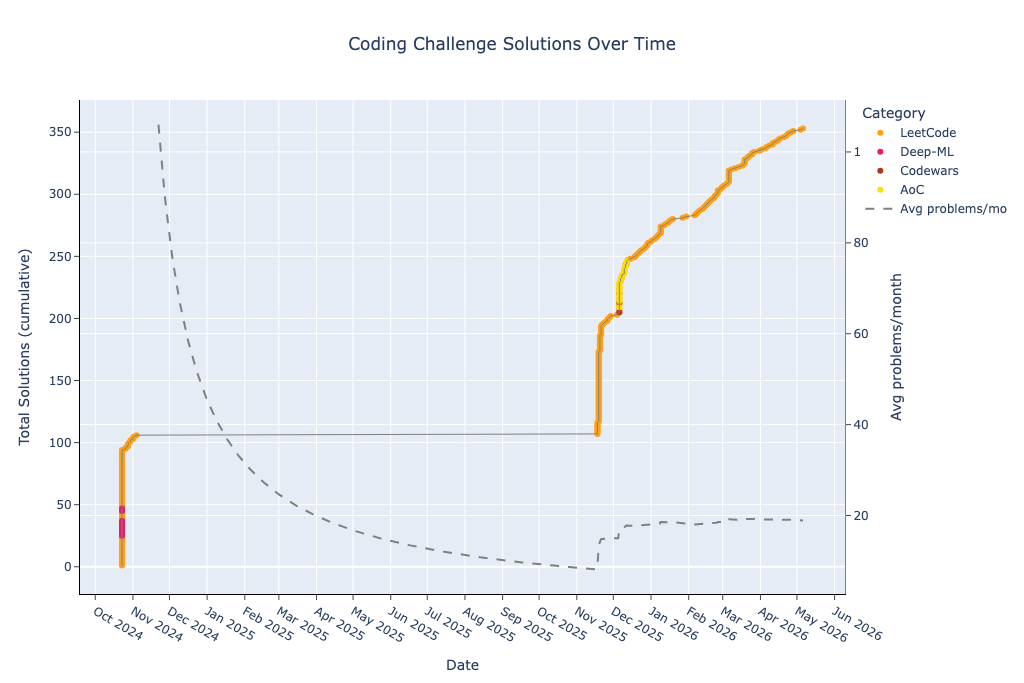
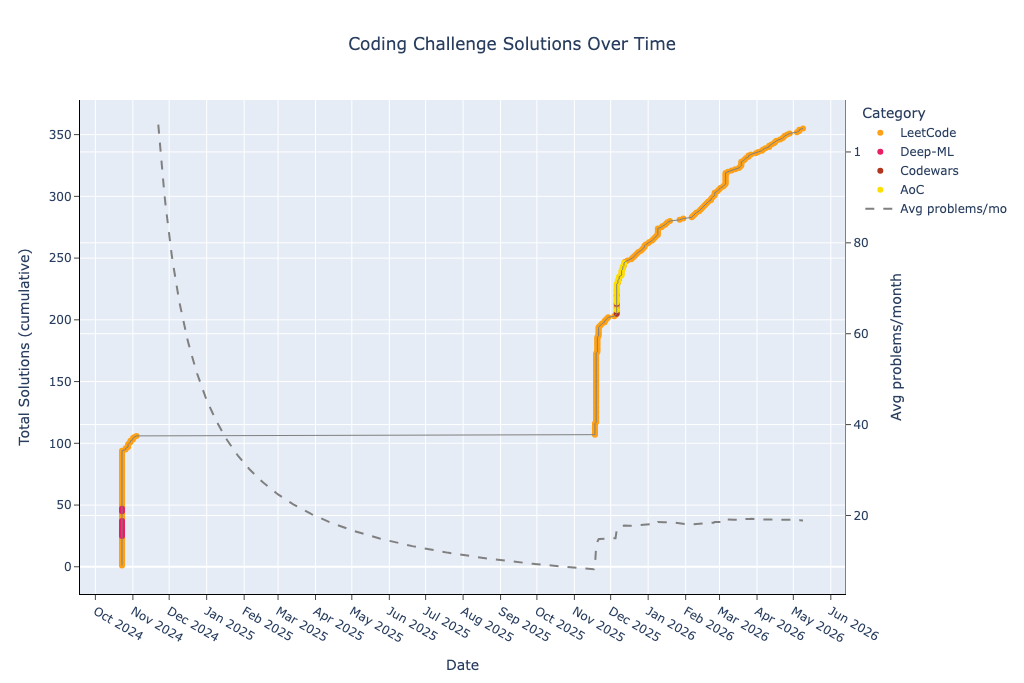
Regenerate README with LeetCode 1914

diff --git a/README.md b/README.md
@@ -36,7 +36,7 @@ This repository contains a collection of coding problems solved on various platf
 | deep-ml-easy | 9 | 72 | 8 | 10 | 0 | 2 | 13 | 0 | 0 | 0 | 12 | 3 | 0 | 0 | 0 | 0 | 0 | 0 |
 | deep-ml-medium | 5 | 69 | 13 | 5 | 0 | 1 | 7 | 0 | 0 | 0 | 8 | 2 | 0 | 0 | 0 | 0 | 0 | 0 |
 | leetcode-easy | 114 | 1879 | 16 | 156 | 6 | 152 | 144 | 41 | 4 | 14 | 188 | 4 | 4 | 14 | 1 | 0 | 11 | 0 |
-| leetcode-medium | 170 | 4459 | 26 | 299 | 5 | 452 | 329 | 101 | 20 | 39 | 367 | 6 | 35 | 52 | 11 | 25 | 23 | 7 |
+| leetcode-medium | 171 | 4493 | 26 | 302 | 5 | 456 | 331 | 102 | 20 | 39 | 372 | 6 | 36 | 52 | 11 | 25 | 23 | 7 |
 | leetcode-hard | 30 | 957 | 31 | 56 | 4 | 88 | 75 | 19 | 8 | 15 | 70 | 3 | 7 | 11 | 8 | 2 | 9 | 9 |
 
 ## Recent Changes
@@ -47,6 +47,8 @@ Recently solved and added problems.
 
 | Date | Type | Challenge | Solution Code | Problem Link |
 | --- | --- | --- | --- | --- |
+| 2026-05-09 | LeetCode Medium | Cyclically Rotating a Grid | [python](leetcode/medium/1914.%20Cyclically%20Rotating%20a%20Grid.py) | [leetcode.com](https://leetcode.com/problems/cyclically-rotating-a-grid/) |
+| 2026-05-06 | LeetCode Medium | Check if There is a Valid Path in a Grid | [python](leetcode/medium/1391.%20Check%20if%20There%20is%20a%20Valid%20Path%20in%20a%20Grid.py) | [leetcode.com](https://leetcode.com/problems/check-if-there-is-a-valid-path-in-a-grid/) |
 | 2026-05-06 | LeetCode Medium | Rotate List | [python](leetcode/medium/61.%20Rotate%20List.py) | [leetcode.com](https://leetcode.com/problems/rotate-list/) |
 | 2026-05-04 | LeetCode Medium | Rotate Image | [python](leetcode/medium/48.%20Rotate%20Image.py) | [leetcode.com](https://leetcode.com/problems/rotate-image/) |
 | 2026-04-28 | LeetCode Medium | Minimum Operations to Make a Uni-Value Grid | [python](leetcode/medium/2033.%20Minimum%20Operations%20to%20Make%20a%20Uni-Value%20Grid.py) | [leetcode.com](https://leetcode.com/problems/minimum-operations-to-make-a-uni-value-grid/) |
@@ -55,8 +57,6 @@ Recently solved and added problems.
 | 2026-04-23 | LeetCode Medium | Sum of Distances | [python](leetcode/medium/2615.%20Sum%20of%20Distances.py) | [leetcode.com](https://leetcode.com/problems/sum-of-distances/) |
 | 2026-04-22 | LeetCode Medium | Words Within Two Edits of Dictionary | [python](leetcode/medium/2452.%20Words%20Within%20Two%20Edits%20of%20Dictionary.py) | [leetcode.com](https://leetcode.com/problems/words-within-two-edits-of-dictionary/) |
 | 2026-04-20 | LeetCode Easy | Lucky Numbers in a Matrix | [python](leetcode/easy/1380.%20Lucky%20Numbers%20in%20a%20Matrix.py) | [leetcode.com](https://leetcode.com/problems/lucky-numbers-in-a-matrix/) |
-| 2026-04-20 | LeetCode Medium | Walking Robot Simulation II | [python](leetcode/medium/2069.%20Walking%20Robot%20Simulation%20II.py) | [leetcode.com](https://leetcode.com/problems/walking-robot-simulation-ii/) |
-| 2026-04-20 | LeetCode Medium | Product of Array Except Self | [python](leetcode/medium/238.%20Product%20of%20Array%20Except%20Self.py) | [leetcode.com](https://leetcode.com/problems/product-of-array-except-self/) |
 # Advent of Code
 ### 2025
 | Day | Challenge | Time Complexity | Space Complexity | Solution Code | Problem Link |
@@ -369,6 +369,7 @@ Recently solved and added problems.
 | 1733 | Minimum Number of People to Teach | O(n) | O(1) | [python](leetcode/medium/1733.%20Minimum%20Number%20of%20People%20to%20Teach.py) | [leetcode.com](https://leetcode.com/problems/minimum-number-of-people-to-teach/) |
 | 1740 | Find Distance in a Binary Tree | O(n) | O(m) | [python](leetcode/medium/1740.%20Find%20Distance%20in%20a%20Binary%20Tree.py) | [leetcode.com](https://leetcode.com/problems/find-distance-in-a-binary-tree/) |
 | 1792 | Maximum Average Pass Ratio | O(n) | O(1) | [python](leetcode/medium/1792.%20Maximum%20Average%20Pass%20Ratio.py) | [leetcode.com](https://leetcode.com/problems/maximum-average-pass-ratio/) |
+| 1914 | Cyclically Rotating a Grid | O(n*m) | O(n+m) | [python](leetcode/medium/1914.%20Cyclically%20Rotating%20a%20Grid.py) | [leetcode.com](https://leetcode.com/problems/cyclically-rotating-a-grid/) |
 | 1930 | Unique Length-3 Palindromic Subsequences | O(n) | O(1) | [python](leetcode/medium/1930.%20Unique%20Length-3%20Palindromic%20Subsequences.py) | [leetcode.com](https://leetcode.com/problems/unique-length-3-palindromic-subsequences/) |
 | 1975 | Maximum Matrix Sum | O(n) | O(1) | [python](leetcode/medium/1975.%20Maximum%20Matrix%20Sum.py) | [leetcode.com](https://leetcode.com/problems/maximum-matrix-sum) |
 | 1980 | Find Unique Binary String | O(n*k) | O(n*k) | [python](leetcode/medium/1980.%20Find%20Unique%20Binary%20String.py) | [leetcode.com](https://leetcode.com/problems/find-unique-binary-string/) |

diff --git a/CHANGES.md b/CHANGES.md
@@ -6,6 +6,8 @@ Recently solved and added problems.
 
 | Date | Type | Challenge | Solution Code | Problem Link |
 | --- | --- | --- | --- | --- |
+| 2026-05-09 | LeetCode Medium | Cyclically Rotating a Grid | [python](leetcode/medium/1914.%20Cyclically%20Rotating%20a%20Grid.py) | [leetcode.com](https://leetcode.com/problems/cyclically-rotating-a-grid/) |
+| 2026-05-06 | LeetCode Medium | Check if There is a Valid Path in a Grid | [python](leetcode/medium/1391.%20Check%20if%20There%20is%20a%20Valid%20Path%20in%20a%20Grid.py) | [leetcode.com](https://leetcode.com/problems/check-if-there-is-a-valid-path-in-a-grid/) |
 | 2026-05-06 | LeetCode Medium | Rotate List | [python](leetcode/medium/61.%20Rotate%20List.py) | [leetcode.com](https://leetcode.com/problems/rotate-list/) |
 | 2026-05-04 | LeetCode Medium | Rotate Image | [python](leetcode/medium/48.%20Rotate%20Image.py) | [leetcode.com](https://leetcode.com/problems/rotate-image/) |
 | 2026-04-28 | LeetCode Medium | Minimum Operations to Make a Uni-Value Grid | [python](leetcode/medium/2033.%20Minimum%20Operations%20to%20Make%20a%20Uni-Value%20Grid.py) | [leetcode.com](https://leetcode.com/problems/minimum-operations-to-make-a-uni-value-grid/) |
@@ -14,5 +16,3 @@ Recently solved and added problems.
 | 2026-04-23 | LeetCode Medium | Sum of Distances | [python](leetcode/medium/2615.%20Sum%20of%20Distances.py) | [leetcode.com](https://leetcode.com/problems/sum-of-distances/) |
 | 2026-04-22 | LeetCode Medium | Words Within Two Edits of Dictionary | [python](leetcode/medium/2452.%20Words%20Within%20Two%20Edits%20of%20Dictionary.py) | [leetcode.com](https://leetcode.com/problems/words-within-two-edits-of-dictionary/) |
 | 2026-04-20 | LeetCode Easy | Lucky Numbers in a Matrix | [python](leetcode/easy/1380.%20Lucky%20Numbers%20in%20a%20Matrix.py) | [leetcode.com](https://leetcode.com/problems/lucky-numbers-in-a-matrix/) |
-| 2026-04-20 | LeetCode Medium | Walking Robot Simulation II | [python](leetcode/medium/2069.%20Walking%20Robot%20Simulation%20II.py) | [leetcode.com](https://leetcode.com/problems/walking-robot-simulation-ii/) |
-| 2026-04-20 | LeetCode Medium | Product of Array Except Self | [python](leetcode/medium/238.%20Product%20of%20Array%20Except%20Self.py) | [leetcode.com](https://leetcode.com/problems/product-of-array-except-self/) |